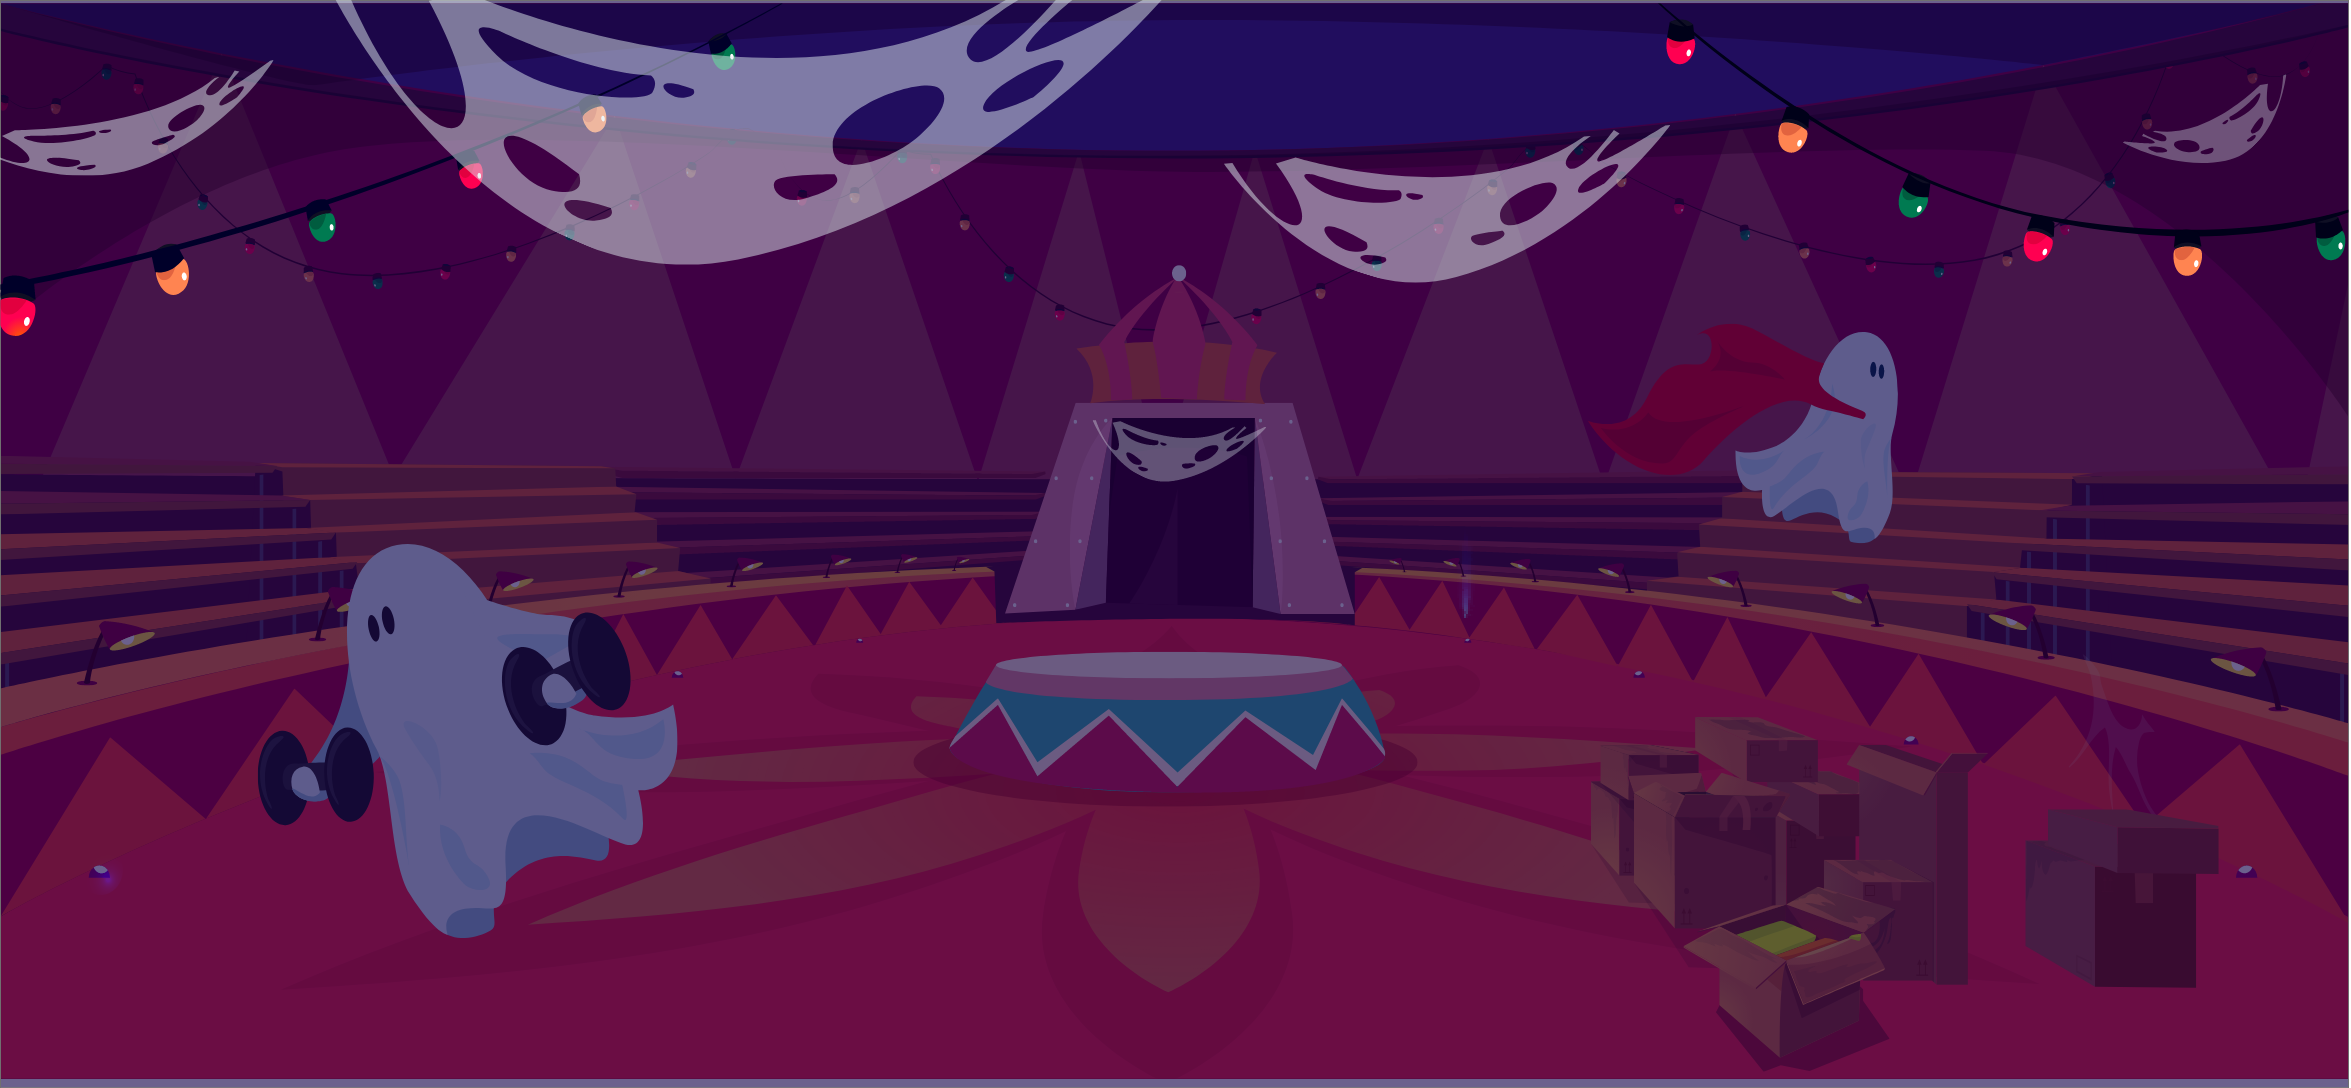
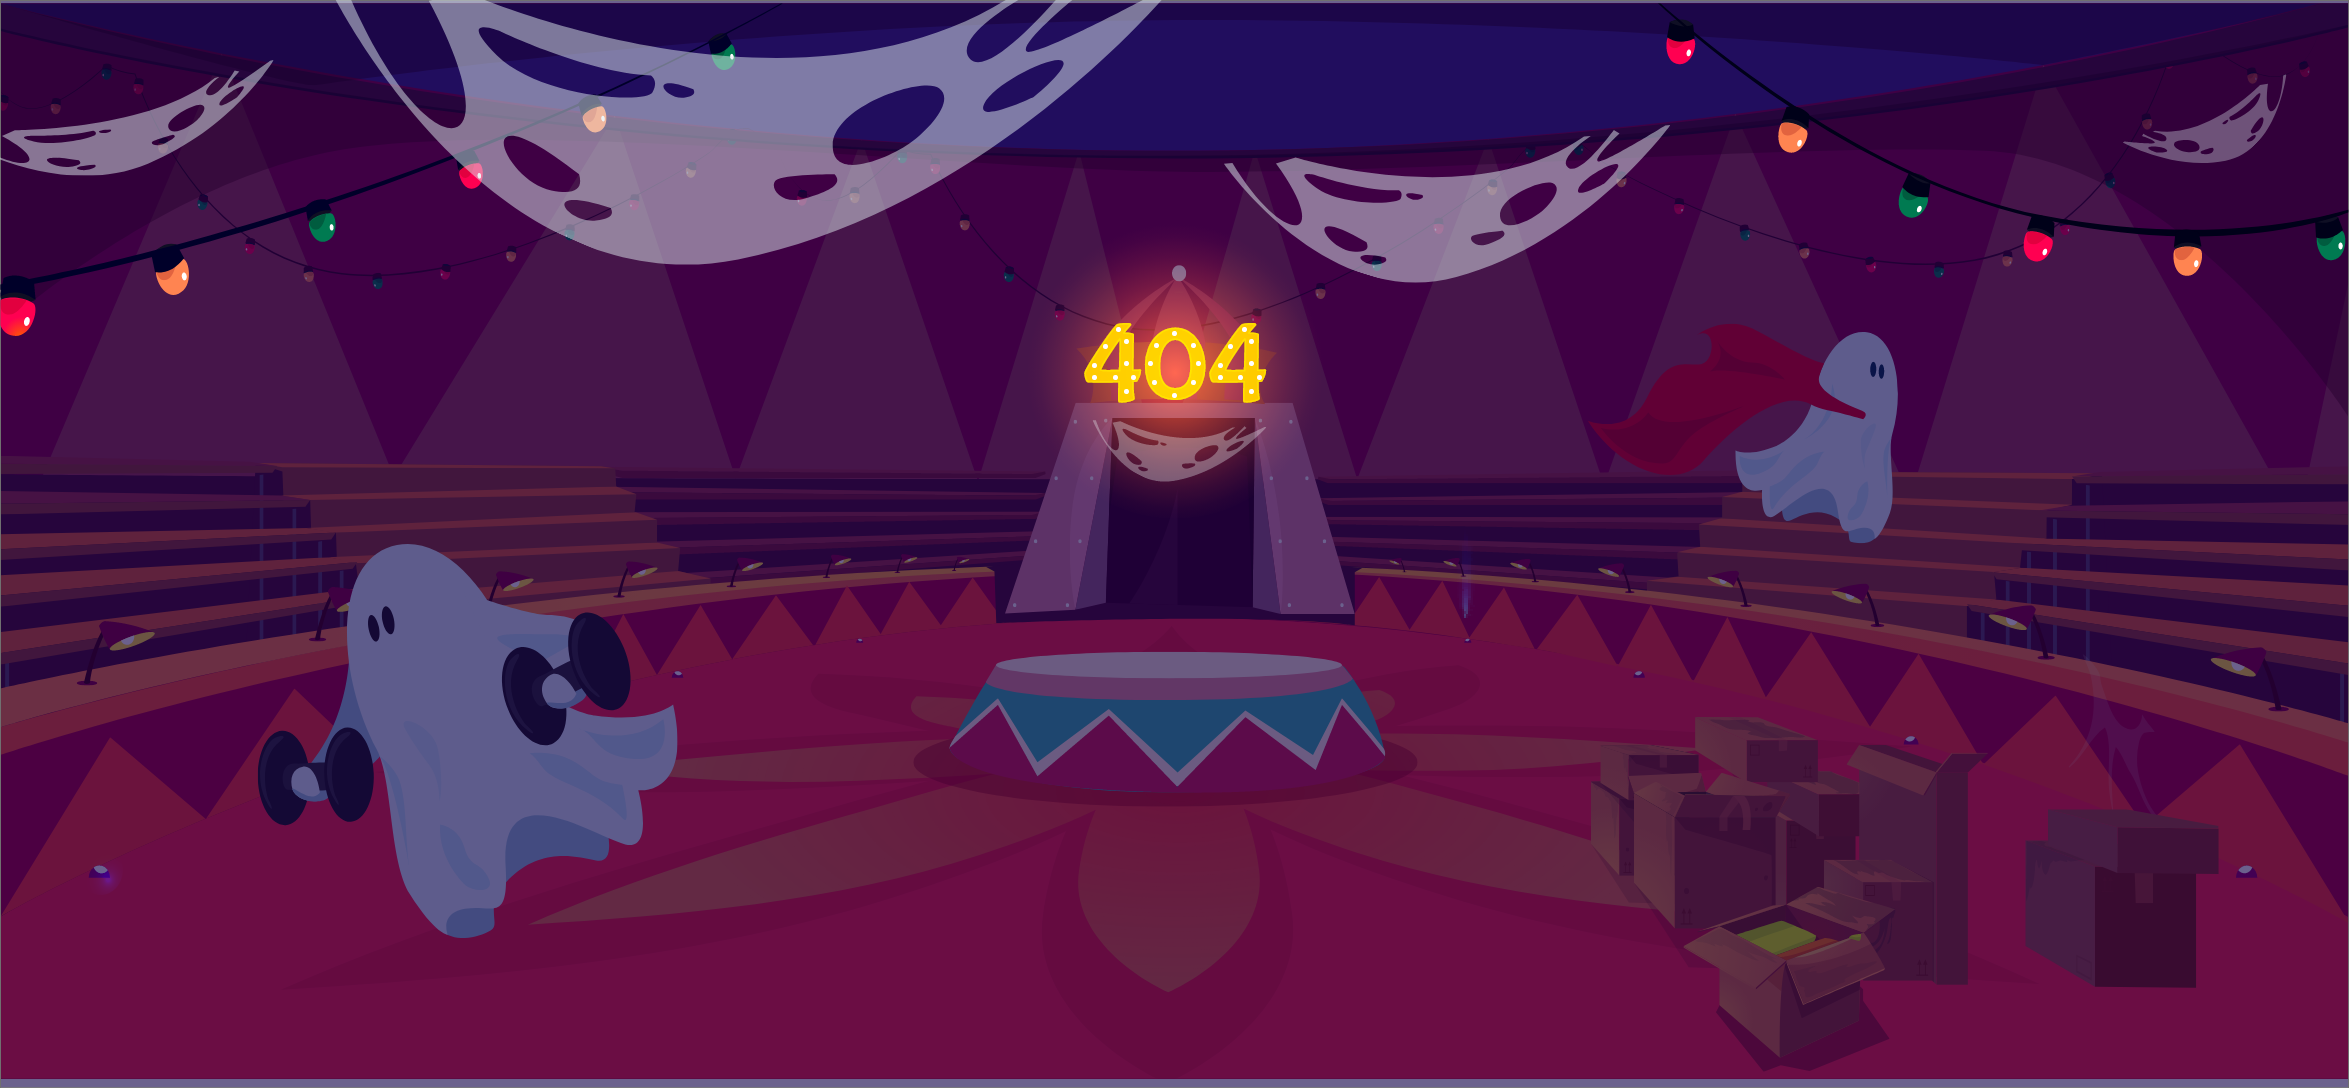
adds all content for 404 page

Changed region(s): [[0.4347, 0.2188, 0.5589, 0.4688]]

diff --git a/frontend/public/css/fourOfour.css b/frontend/public/css/fourOfour.css
@@ -3,6 +3,27 @@
   background-position: center;
   background-repeat: no-repeat;
   background-size: cover;
+  padding-top: 0;
+}
+
+#fourOfour-page h1 {
+  color: var(--vita-yellow);
+}
+
+.message-board {
+  width: 450px;
+  text-align: center;
+  padding: 1em 2.5em;
+  margin: 0 auto;
+  position: absolute;
+  top: 45%;
+  left: 38%;
+}
+
+.message-board h1,
+.message-board p {
+  text-shadow: 0 0 10px #000000, 0 0 20px #000000, 0 0 30px #000000,
+    0 0 40px #2518bd, 0 0 50px #2518bd, 0 0 60px #2518bd, 0 0 70px #2518bd;
 }
 
 /* animated spider styles inspired by and re-produced from: https://codepen.io/webcrafterscz/pen/EGYOxa  */
@@ -11,7 +32,7 @@
   display: inline-block;
   top: 0;
   left: 30%;
-  animation: swing 2s infinite;
+  animation: bounce 2s infinite;
 }
 
 .spider:first-of-type {
@@ -133,7 +154,7 @@
   }
 }
 
-@keyframes swing {
+@keyframes bounce {
   0%,
   100% {
     transform: translateY(0);
